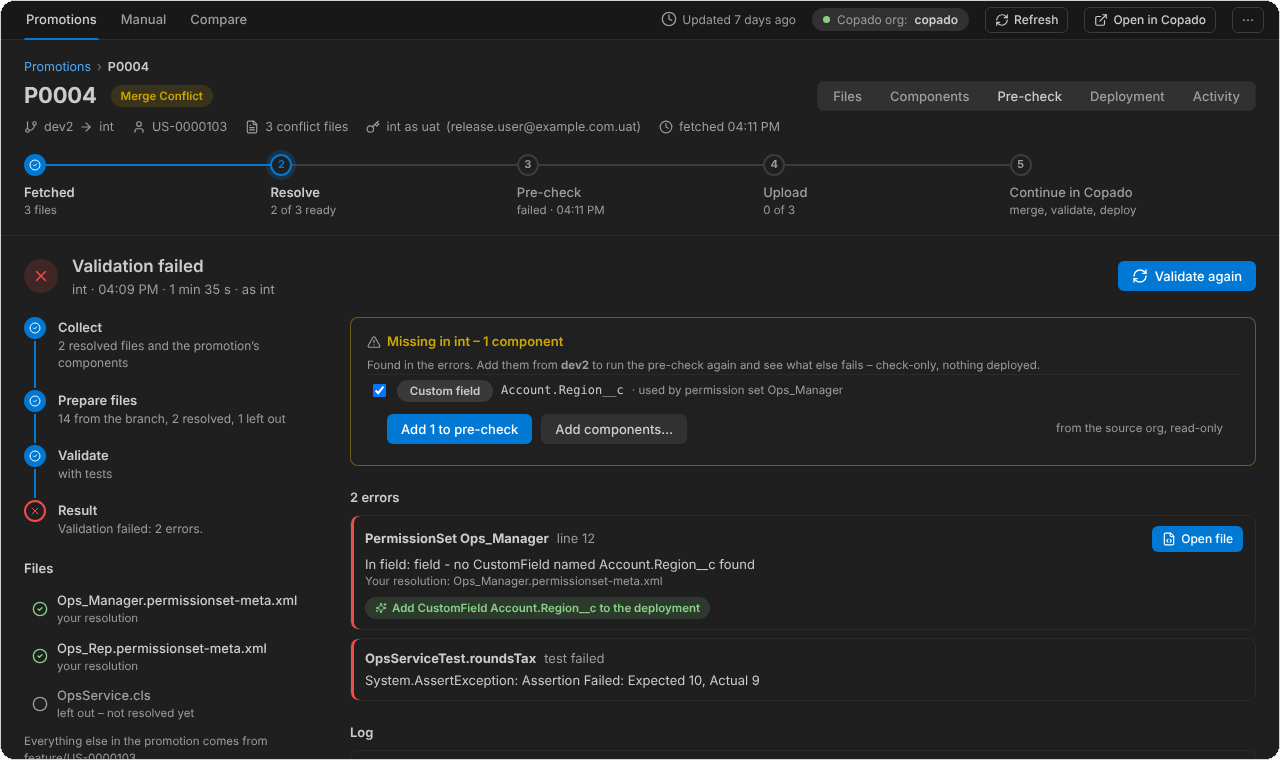
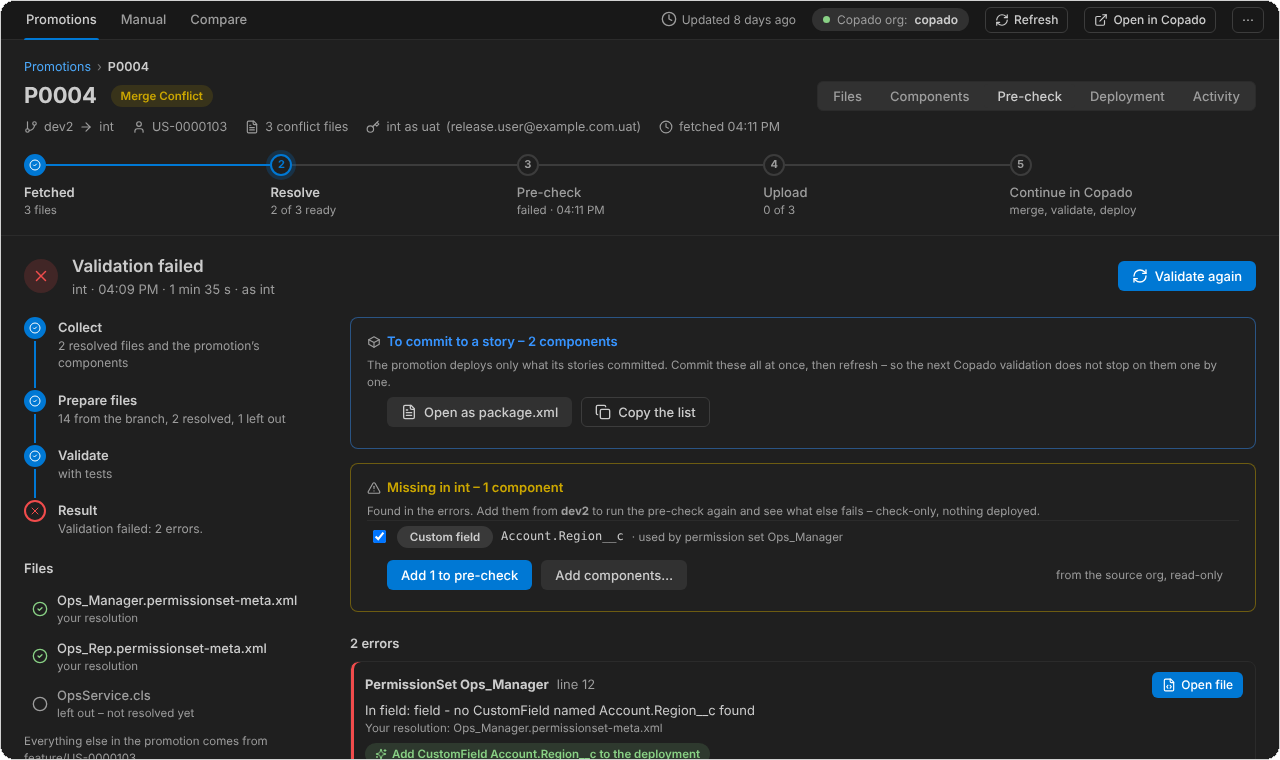
Minor changes

diff --git a/test/smoke3.js b/test/smoke3.js
@@ -3558,12 +3558,12 @@ module.exports = function register(ok, section, h) {
     const item = f => '            <layoutItems>\n                <behavior>Edit</behavior>\n                <field>' + f + '</field>\n            </layoutItems>\n';
     // as Copado's file had it (Contact layout, P202852): the block opens inside mkto_si__Mkto_Lead_Score__c's item
     const lay = '<Layout xmlns="http://soap.sforce.com/2006/04/metadata">\n    <layoutSections>\n        <label>Marketo</label>\n        <layoutColumns>\n' + item('Lead_Source_History__c') +
-      '            <layoutItems>\n                <behavior>Edit</behavior>\n<<<<<<< HEAD\n=======\n                <field>NWL_Person_Source__c</field>\n            </layoutItems>\n            <layoutItems>\n                <behavior>Edit</behavior>\n                <field>NWL_Person_Status__c</field>\n            </layoutItems>\n            <layoutItems>\n                <behavior>Edit</behavior>\n>>>>>>> feature/US-0236997\n                <field>mkto_si__Mkto_Lead_Score__c</field>\n            </layoutItems>\n        </layoutColumns>\n    </layoutSections>\n</Layout>\n';
+      '            <layoutItems>\n                <behavior>Edit</behavior>\n<<<<<<< HEAD\n=======\n                <field>Acme_Person_Source__c</field>\n            </layoutItems>\n            <layoutItems>\n                <behavior>Edit</behavior>\n                <field>Acme_Person_Status__c</field>\n            </layoutItems>\n            <layoutItems>\n                <behavior>Edit</behavior>\n>>>>>>> feature/US-0236997\n                <field>mkto_si__Mkto_Lead_Score__c</field>\n            </layoutItems>\n        </layoutColumns>\n    </layoutSections>\n</Layout>\n';
     const t = tidy(lay);
     assert.deepStrictEqual(sidesOf(t), sidesOf(lay), 'both sides exactly as they were');
-    assert.strictEqual(blocks(t)[0].theirs.join(''), item('NWL_Person_Source__c') + item('NWL_Person_Status__c'));
+    assert.strictEqual(blocks(t)[0].theirs.join(''), item('Acme_Person_Source__c') + item('Acme_Person_Status__c'));
     const g = CM.fromConflictFile(lay), c = g.conflicts[0];
-    assert.strictEqual(c.about, 'Section Marketo: only the feature has fields NWL_Person_Source__c, NWL_Person_Status__c \u2013 Accept feature adds it');
+    assert.strictEqual(c.about, 'Section Marketo: only the feature has fields Acme_Person_Source__c, Acme_Person_Status__c \u2013 Accept feature adds it');
     const r = CM.marks({ text: g.text, conflicts: g.conflicts, language: null, typeName: 'Layout' }).rows[0];
     // accepted, the file is the feature's - the existing item whole after the two new ones
     const L = g.text.split(/(?<=\n)/), f = r.actions.find(a => a.choice === 'feature').op;

diff --git a/test/browser.js b/test/browser.js
@@ -646,13 +646,13 @@ ok('5.1.1 - a row is its label alone and never runs under its buttons, in every 
   // as Copado's file has it: the block opens inside the existing item, after its <behavior>
   const odd = (fs, next) => '            <layoutItems>\n                <behavior>Edit</behavior>\n<<<<<<< HEAD\n=======\n' + fs.map(x => '                <field>' + x + '</field>\n            </layoutItems>\n            <layoutItems>\n                <behavior>Edit</behavior>\n').join('') + '>>>>>>> feature/US-0236997\n                <field>' + next + '</field>\n            </layoutItems>\n';
   const f = '<Layout xmlns="http://soap.sforce.com/2006/04/metadata">\n    <layoutSections>\n        <label>Marketo - Email Preferences and Professional Profile</label>\n        <layoutColumns>\n' + item('Lead_Source_History__c') +
-    odd(['NWL_Person_Source_With_A_Long_Name__c', 'NWL_Person_Status_With_A_Long_Name__c'], 'mkto_si__Mkto_Lead_Score__c') + item('Pref_Commodities__c') + odd(['NWL_Pref_Index_Insights__c'], 'Pref_Insurance__c') +
+    odd(['Acme_Person_Source_With_A_Long_Name__c', 'Acme_Person_Status_With_A_Long_Name__c'], 'mkto_si__Mkto_Lead_Score__c') + item('Pref_Commodities__c') + odd(['Acme_Pref_Index_Insights__c'], 'Pref_Insurance__c') +
     '        </layoutColumns>\n    </layoutSections>\n</Layout>\n';
   const T = f.replace(/<<<<<<< HEAD\n([\s\S]*?)=======\n[\s\S]*?>>>>>>> [^\n]*\n/g, '$1'), F = f.replace(/<<<<<<< HEAD\n[\s\S]*?=======\n([\s\S]*?)>>>>>>> [^\n]*\n/g, '$1');
   const g = CM.fromConflictFile(f);
   assert.ok(g.conflicts.every(c => /^            <layoutItems>\n/.test(c.feature) && /<\/layoutItems>\n$/.test(c.feature)), 'each block whole items');
   for (const view of ['onePane', 'twoPanes', 'threePanes']) {
-    await run(Object.assign({}, base, { file: 'Contact-SPDJI LEX Contact.layout-meta.xml', typeName: 'Layout', git: true, target: T, incoming: F, text: g.text, codeView: view, gitLabels: g.labels, code: { conflicts: g.conflicts, reviewed: new Map() } }), async (p, h) => {
+    await run(Object.assign({}, base, { file: 'Contact-Sales Contact.layout-meta.xml', typeName: 'Layout', git: true, target: T, incoming: F, text: g.text, codeView: view, gitLabels: g.labels, code: { conflicts: g.conflicts, reviewed: new Map() } }), async (p, h) => {
       const rows = await p.$$eval('#right .zone.head.conf', n => n.map(x => x.textContent));
       assert.deepStrictEqual(rows, ['Conflict', 'Conflict'], view);
       assert.deepStrictEqual(await p.$$eval('.zone.alt .alt-t', n => n.map(x => x.textContent.trim())).then(t => t.filter(x => !/^\u25be (Target|Feature)$/.test(x))), [], view + ': each version only its name');

diff --git a/src/conflictWords.js b/src/conflictWords.js
@@ -206,7 +206,7 @@ function explain(type, S, k, c, ok) {
     if (!els || !els.length) return null;
     const ns = els.slice(0, 2).map(el => named(type, cpath, el) || (XC.isLeaf(el) ? leafWord(el.name).toLowerCase() : words(el.name)));
     const more = els.length > 2 ? ' and ' + (els.length - 2) + ' more' : '';
-    // two of a kind said once: "fields NWL_Person_Source__c, NWL_Person_Status__c"
+    // two of a kind said once: "fields Acme_Person_Source__c, Acme_Person_Status__c"
     const kind = /^([a-z]+) (.+)$/.exec(ns[0]);
     if (ns.length > 1 && kind && els.every(el => el.name === els[0].name) && ns.every(n => n.startsWith(kind[1] + ' '))) return kind[1] + 's ' + ns.map(n => n.slice(kind[1].length + 1)).join(', ') + more;
     return ns.join(', ') + more;

diff --git a/README.md b/README.md
@@ -33,9 +33,9 @@ What it reads, what it writes, and the rules for each kind of file, in one page:
 
 ### Promotion conflicts, resolved without losing anything
 
-Open a promotion that stopped on a merge conflict — by its number or its Copado link, in the **Promotions** tab's one box — and every conflicted file is fetched at once: **Copado's own conflict files**, nothing read from a branch. The files are grouped *To resolve*, *Ready to upload*, *Uploaded* and *Resolve in Copado* — each with a status pill — and each file's panel has one primary action, **Resolve in editor**, with what it will do beside it. Files that are neither code nor metadata (static resources, images, JSON, text) are resolved in Copado: never opened here, never uploaded from here. Metadata and code open in the same merge editor with git's merge kept as it is, each of its conflicts yours to choose. Upload all resolutions in one step, read back from Copado, with undo.
+Open a promotion that stopped on a merge conflict — by its number or its Copado link, in the **Promotions** tab's one box — and every conflicted file is fetched at once: **Copado's own conflict files**, nothing read from a branch. The files are grouped *To resolve*, *Ready to upload*, *Uploaded* and *Resolve in Copado* — each with a status pill — and each file's panel has one primary action, **Resolve in editor**, with what it will do beside it. The panel lists **what you are choosing between** — the element each conflict is in and what each version sets, such as *Section Account Information › field Region__c: Behavior Edit → Required* — and says **Also in conflict for …** when Copado made a conflict file for more than one story, so no story's change is lost. Files that are neither code nor metadata (static resources, images, JSON, text) are resolved in Copado: never opened here, never uploaded from here. Metadata and code open in the same merge editor with git's merge kept as it is, each of its conflicts yours to choose. Upload all resolutions in one step, read back from Copado, with undo.
 
-![A promotion's conflict files, each with what happened and what to do](media/readme/promotion.png)
+![A promotion's conflict files: the file's panel with what happened, what you are choosing between, and another story's conflict on the same file](media/readme/promotion.png)
 
 ### See what the stories committed
 
@@ -45,7 +45,7 @@ The **Components** tab lists every component the promotion's stories committed, 
 
 ### A merge editor built for Salesforce metadata and code
 
-Everything comes from **Copado's conflict file**, as Copado's own merge made it: git had the common ancestor, so whatever only one story changed is already merged — the feature's deletions applied, other stories' work kept — and stays as it is. Only git's **conflicts** are marked, metadata and code alike: both versions shown — the target's greyed out, the feature's in its colour — and neither in your resolution until you choose **Accept target** or **Accept feature** (code also offers **Accept both**; two versions of one metadata element are rarely valid, so metadata offers it only where the two stories each add their own entry at the same place — two picklist values, two flow formulas — and it keeps the two). **Each row says what you are choosing**: the element the conflict is in and what each version sets — *Section Case Information › field Dispute_Amount__c: Behavior Required → Readonly* — with each side's value beside its own version; in code, the member — *Conflict · method total(Decimal)*. A flow's conflict that only moves the canvas — `locationX`/`locationY` — is the feature's, marked, with **Use target**. A resolved conflict says so, in green, still a click from changing; **⋯ › Accept all target** or **Accept all feature** resolves every one at once. It opens in **Copado's own three panels** — *Conflicts in Promotion branch*, *Resolution*, *Conflicts in Feature branch*, each branch named as Copado's file names it — level with each other, the words that differ lit within a line; **→** and **←** take a side's lines into the resolution, **Accept both** sits between. **View › Layout** switches to one panel or two, and remembers it (`cmr.merge.codeView`); each version is shown once — in two panels, the target's lines stay on the left, with **Accept target** beside them, and only the feature's version sits under the conflict. Every choice is undone with `Ctrl+Z`.
+Everything comes from **Copado's conflict file**, as Copado's own merge made it: git had the common ancestor, so whatever only one story changed is already merged — the feature's deletions applied, other stories' work kept — and stays as it is. Only git's **conflicts** are marked, metadata and code alike: both versions shown — the target's greyed out, the feature's in its colour — and neither in your resolution until you choose **Accept target** or **Accept feature** (code also offers **Accept both**; two versions of one metadata element are rarely valid, so metadata offers it only where the two stories each add their own entry at the same place — two picklist values, two flow formulas — and it keeps the two). Each row says only what it is — *Conflict*, *Resolved*, *Removed*, *Left out* — and what each conflict is about is listed on the Release Assistant page, under *What you are choosing between*. Where git's block opens inside an existing element — a field added before another, a method after another — it is shown as whole elements, the existing one untouched. A flow's conflict that only moves the canvas — `locationX`/`locationY` — is the feature's, marked, with **Use target**. A resolved conflict says so, in green, still a click from changing; **⋯ › Accept all target** or **Accept all feature** resolves every one at once. It opens in **Copado's own three panels** — *Conflicts in Promotion branch*, *Resolution*, *Conflicts in Feature branch*, each branch named as Copado's file names it — level with each other, the words that differ lit within a line; **→** and **←** take a side's lines into the resolution, and **Accept both**, where it is offered, sits between. **View › Layout** switches to one panel or two, and remembers it (`cmr.merge.codeView`); each version is shown once — in two panels, the target's lines stay on the left, with **Accept target** beside them, and only the feature's version sits under the conflict. Every choice is undone with `Ctrl+Z`.
 
 **Permission sets, profiles, muting permission sets, labels and translations (global and standard value set translations too)** — files whose entries add up — are joined, whatever git's blocks: the two sides are rebuilt from Copado's file and joined entry by entry. The target's entries are kept as they are, the feature's are added beside their kind, or applied where it changed one; an entry both have stays once. Entries are matched by what identifies them: a field permission by its field, a user permission by its name. A label or translation whose value the target and the feature hold differently is yours to choose. **Nothing of the target is removed — and nothing that grants less is taken for you**: where the feature would turn access off (`editable`, `readable`, `enabled`, `visible`, an `allow…`, a tab's visibility — in a muting permission set, turning one on), that entry is a conflict for you to choose, target or feature. Should a file's sides not join, its blocks are conflicts and **Accept feature** is not offered, so the target's access is never one click from gone. A profile's security settings — IP ranges, login hours, password and session settings — are always yours to choose. An entry the target itself has twice, the same, loses its second copy, shown as *Duplicate* with **Keep**; twice and different, the copy granting more is kept — *Duplicate · the copy granting more kept*, with **Keep … instead** to use the other.
 
@@ -59,23 +59,25 @@ It is an editor you can work in all day: the parent elements stay pinned as you 
 
 ### Code, too
 
-A promotion's **Apex**, **Lightning web component** JavaScript, HTML and CSS, **Visualforce** and **Aura** conflicts open in the same editor, from **Copado's conflict file** as git merged it. Git had the common ancestor, so everything only one story changed is already merged — the feature's deletions applied, other stories' work kept — and shown as plain text. Only the **conflicts** are marked: both versions shown — the target's greyed out, the feature's in its colour — neither in your resolution until you choose **Accept target**, **Accept feature** or **Accept both**. Once you choose, its row says *Resolved*, in green, the version you chose marked — still a click from changing. A version with nothing in it is a choice too: a feature version that removes lines says so, and once accepted the row says **Removed**, the lines struck through in red — or, where only the feature added, **Left out**, struck through in grey. Green only ever means lines that are in your file. **⋯ › Accept all target** or **Accept all feature** resolves every conflict at once — one step, Ctrl+Z undoes it. The conflict markers are never shown. Saving with one not resolved warns first. It opens in the same three panels as metadata — **View › Layout** switches to one or two (`cmr.merge.codeView`). Brackets that do not balance and a member defined twice are underlined once its conflicts are resolved. VS Code's own conflict view is a setting away.
+A promotion's **Apex**, **Lightning web component** JavaScript, HTML and CSS, **Visualforce** and **Aura** conflicts open in the same editor, from **Copado's conflict file** as git merged it. Git had the common ancestor, so everything only one story changed is already merged — the feature's deletions applied, other stories' work kept — and shown as plain text. Only the **conflicts** are marked: both versions shown — the target's greyed out, the feature's in its colour — neither in your resolution until you choose **Accept target**, **Accept feature** or **Accept both**. Once you choose, its row says *Resolved*, in green, the version you chose marked — still a click from changing. A version with nothing in it is a choice too: a feature version that removes lines says so, and once accepted the row says **Removed**, the lines struck through in red — or, where only the feature added, **Left out**, struck through in grey. Green only ever means lines that are in your file. **⋯ › Accept all target** or **Accept all feature** resolves every conflict at once — one step, Ctrl+Z undoes it. The conflict markers are never shown. A save never leaves one unresolved: **Save** offers to keep the target's version for those left, or to go back. It opens in the same three panels as metadata — **View › Layout** switches to one or two (`cmr.merge.codeView`). Brackets that do not balance and a member defined twice are underlined once its conflicts are resolved. VS Code's own conflict view is a setting away.
 
 ![Apex in three panels: Copado's conflict file, a conflict between the promotion branch's side and the feature branch's](media/readme/code.png)
 
 ### Validate before Copado does
 
-Check a promotion's resolutions, or a user story straight from its feature branch, against the target org — check-only, nothing deploys. Errors point to the right line, with suggested fixes.
+Check a promotion's resolutions against the target org — check-only, nothing deploys. Errors point to the right line, with suggested fixes.
 
 When a pre-check stops at something the target does not have — a field, a class — what is missing is read from the errors and listed, each with what needs it. **Add to pre-check** borrows it from the source org, read-only, and runs the pre-check again, so the errors it was hiding show; **Add components…** picks any others by type and name. Borrowed components are for the pre-check alone — never deployed, never added to the story or the promotion — and the pre-check says the promotion still needs them.
 
 Errors are grouped by cause: something missing in the target, a component a story has in an older version, or an error in the code itself. Every story in the promotion is read. **To commit to a story** lists everything the pre-check borrowed or found missing. **Open as package.xml** or **Copy the list** gives you the whole list, so the items can be committed to a story at once.
 
-![A failed pre-check: what the target is missing, to add from the source org, above the errors](media/readme/precheck.png)
+![A failed pre-check: what the target is missing, to add from the source org, and what to commit to a story, above the errors](media/readme/precheck.png)
 
 ### Upload knowing what goes up
 
-Before anything is uploaded, the dialog runs a checklist: files still to resolve, files changed since the pre-check, a pre-check that failed or never ran, access a resolution takes away, duplicates, and borrowed components no story has. Each item says what to do, followed by a list of the files that will go up. Each file is saved as uploaded as soon as it is up, and **Undo** tries every file, so an interrupted upload never loses track. In metadata, a conflict row says what the choice means, such as *Edit access true → false – the feature removes access*. **⋯ › Save review to share…** writes the whole review as a Markdown report.
+Before anything is uploaded, the dialog runs a checklist: files still to resolve, files changed since the pre-check, a pre-check that failed or never ran, access a resolution takes away, duplicates, and borrowed components no story has. Each item says what to do, followed by a list of the files that will go up. Each file is saved as uploaded as soon as it is up, and **Undo** tries every file, so an interrupted upload never loses track. Access a resolution takes away is named — *Account.Region__c: Edit access true → false* — and a file with duplicate entries is uploaded as it is, with a warning. **⋯ › Save review to share…** writes the whole review as a Markdown report.
+
+![The upload dialog: the checklist before uploading - the pre-check, a file not resolved, access taken away, a component to commit - then what goes up](media/readme/upload.png)
 
 ### Compare two versions, with or without Copado
 
@@ -105,7 +107,7 @@ For permission sets, profiles, labels and translations, the extension's own **Fo
 
 1. Download the `.vsix` from the [latest release](https://github.com/nikeshvarma/Copado-Release-Assistant/releases/latest) and install it:
    ```bash
-   code --install-extension copado-release-assistant-5.1.2.vsix
+   code --install-extension copado-release-assistant-5.1.3.vsix
    ```
 2. Open your Salesforce project folder.
 3. Run **Copado: Open Settings** and set **Copado org** — the Salesforce CLI alias of the org where Copado runs.

diff --git a/CHANGELOG.md b/CHANGELOG.md
@@ -1,5 +1,10 @@
 # Changelog
 
+## 5.1.3
+
+- **README and its pictures brought up to date.** Rows say only what they are, and what each conflict is about is on the Release Assistant page (*What you are choosing between*). Blocks are shown as whole elements. *Also in conflict for …* is described. A save offers to keep the target's version. The pre-check no longer mentions validating a story's own branch. Every picture is drawn again from this version's code, and a new one shows the upload dialog's checklist.
+- **Client-specific names replaced with generic ones** in a code comment, the tests and this changelog - example field and layout names that had come from a real org. Behaviour is unchanged; every test passes as before.
+
 ## 5.1.2
 
 - **A row shows its label only**: *Conflict*, *Resolved*, *Removed*, *Left out*. There is no location, explanation or member name after it, including on hover. In three panels, each branch's row shows only its arrow button, and in one and two panels each version's heading is only *Target* or *Feature*. A version with no lines still says *removes these lines*, because otherwise the heading would sit over nothing. The Release Assistant page still lists what each conflict is about.
@@ -9,7 +14,7 @@
 Conflicts read the way the file is built, and the buttons never cover what a row says.
 
 - **C11: a field added before another is shown as new fields, whole.** Git lines up text, and every layout item starts with the same two lines, so Copado's file often has a block that opens inside the existing item: the new field's lines, its close, then the next item's open. It made a valid file but looked as if fields were being put inside `mkto_si__Mkto_Lead_Score__c`. Such a block is now slid to whole elements: the two new `<layoutItems>` before the existing one, which is left untouched. The same happens for flows, picklists and pages, and for code, where a method added after another no longer starts at the brace before it. Each side of the file stays exactly as it was; only blocks that one side added to or removed from are moved, and only to a place where they are whole.
-- **Rows say where, the buttons stay clear.** A metadata row now names only the place and what the block holds, for example *Section Marketo › fields NWL_Person_Source__c, NWL_Person_Status__c*. Hover over it for the full explanation; the version under it and each side's row still say what that version does. The words always stop before the row's buttons, whatever their number or width, in one, two and three panels. Before, the editor's own zone styling undid the row's layout and long words ran under *Accept feature*.
+- **Rows say where, the buttons stay clear.** A metadata row now names only the place and what the block holds, for example *Section Marketo › fields Acme_Person_Source__c, Acme_Person_Status__c*. Hover over it for the full explanation; the version under it and each side's row still say what that version does. The words always stop before the row's buttons, whatever their number or width, in one, two and three panels. Before, the editor's own zone styling undid the row's layout and long words ran under *Accept feature*.
 
 ## 5.1.0
 
